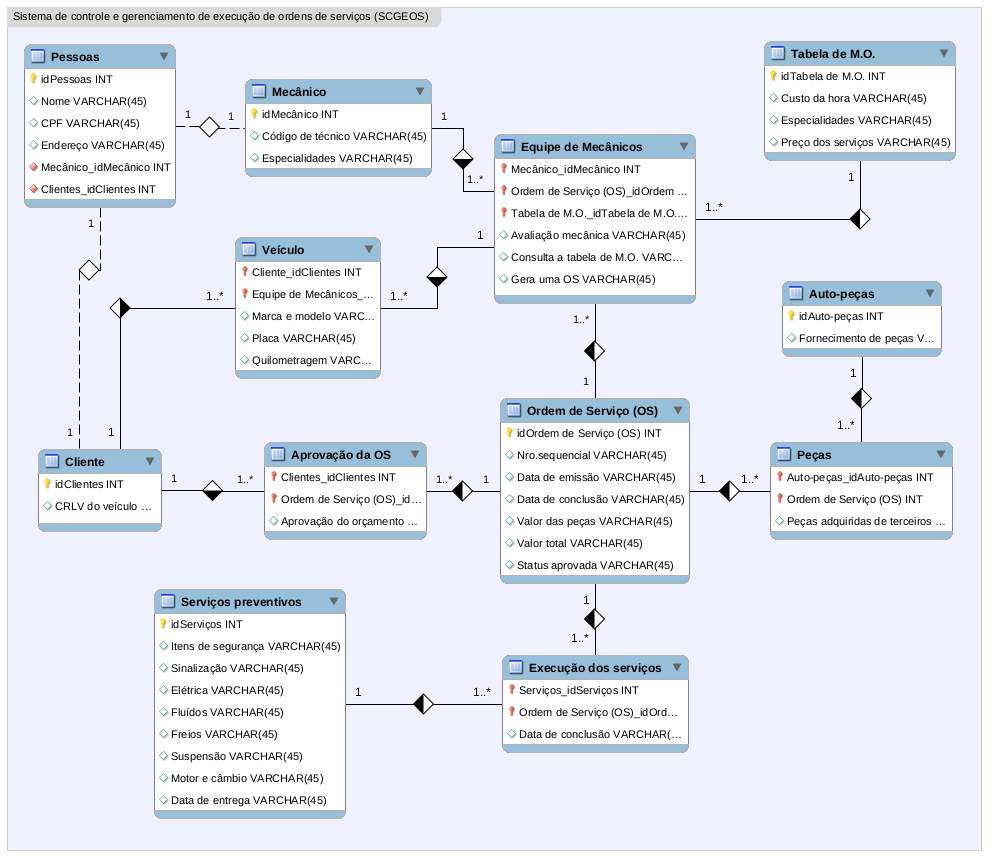
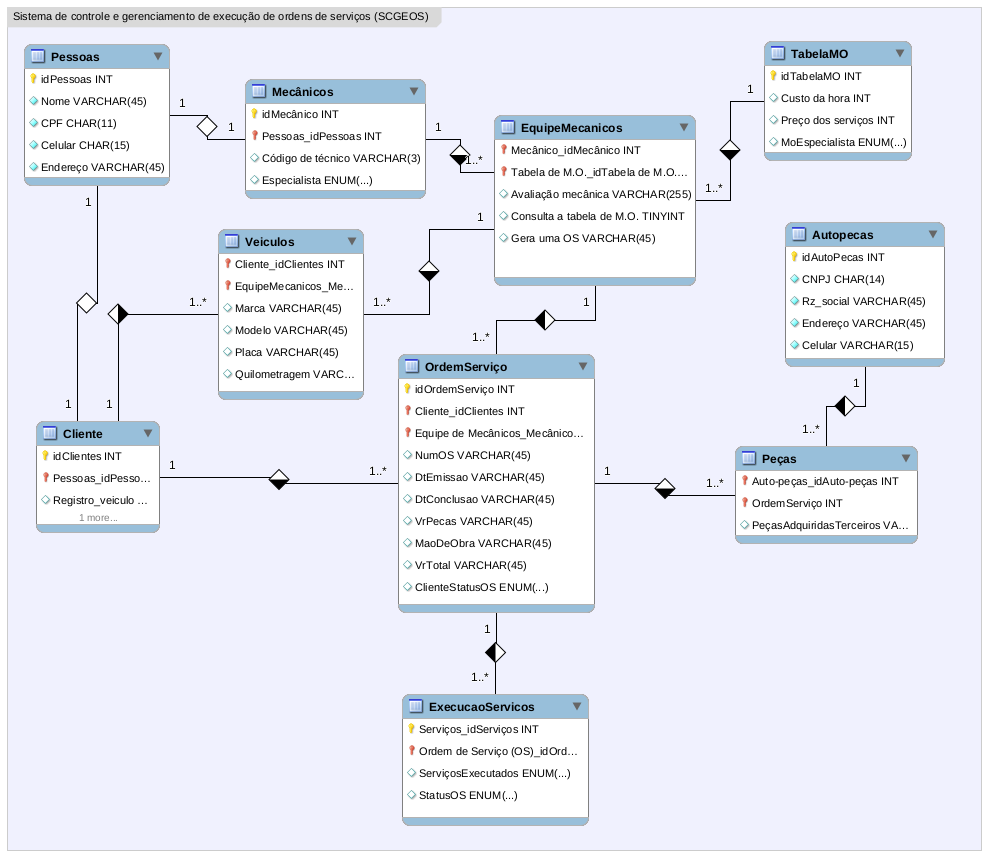
Atualização Esquema e Adição Projeto Lógico

diff --git a/README.md b/README.md
@@ -2,6 +2,8 @@
 
 Modelamos um contexto reduzido de uma oficina mecânica como um segundo desafio do bootcamp Database Experience da [Digital Innovation One (DiO)](https://web.dio.me/track/database-experience) , utilizando a ferramenta MySQL Workbench e os conceitos de primary key e foreign key, criando um esquema conceitual para o cenário proposto.
 
+Num segundo momento realizamos a modelagem do projeto lógico baseado no esquema conceitual. Criamos o Script SQL, persistimos dados para realização de testes, criamos queries SQL com as cláusulas SELECT, WHERE, JOIN, ORDER BY e HAVING para recuperar dados suficientes para obter informações complexas, que nos ajudará a entender melhor o cenário de oficina mecânica para tomada de decisões. 
+
 #### Narrativa do contexto / cenário
 
 - Há um sistema de controle e gerenciamento de execução de ordens de serviço (OS) em uma oficina mecânica;
@@ -16,17 +18,19 @@ Modelamos um contexto reduzido de uma oficina mecânica como um segundo desafio 
 - Uma OS pode ser composta por vários serviços e um mesmo serviço pode estar contido em mais de uma OS;
 - Uma OS pode ter vários tipos de peça e uma peça pode estar presente em mais de uma OS.
 
-#### Modelagem
+#### Modelagem Esquema Conceitual
 
 ![projeto_oficina_mecanica](/home/daniel/workspace/dio-database-experience2/projeto_oficina_mecanica.png)
 
 Adicionamos entidades e atributos típicos do contexto de oficina mecânica, para que a modelagem represente da melhor forma possível o mundo real. Inserimos a possibilidade de uma auto-peça fornecedora de múltiplas peças automotivas e uma grande gama de serviços possíveis de serem executados na oficina.
 
+#### Projeto Lógico
+
+Consta anexo neste repositório o arquivo do MySQL Workbench com o projeto lógico, com o Script SQL, os dados persistimos e as queries SQL.
+
 ##### Conhecimentos e ferramentas:
 
 - Linguagem SQL
-- Full-stack - desafio intermediário
-
 - MySQL Workbench (versão linux/ubuntu)
 - Typora
 - Git / Github
